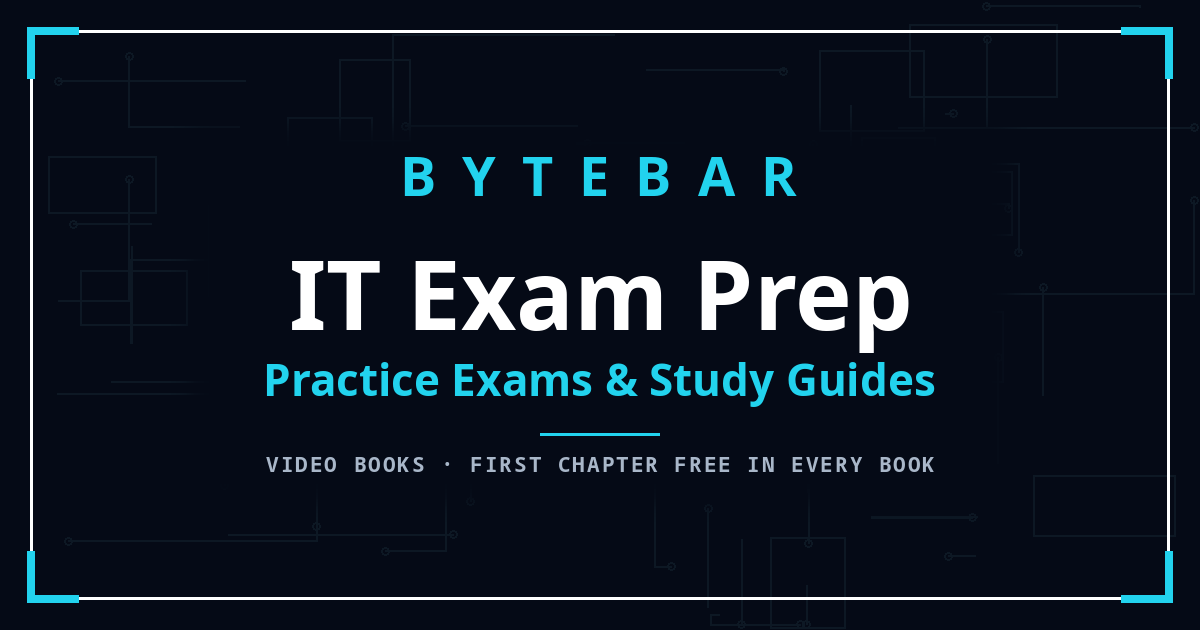
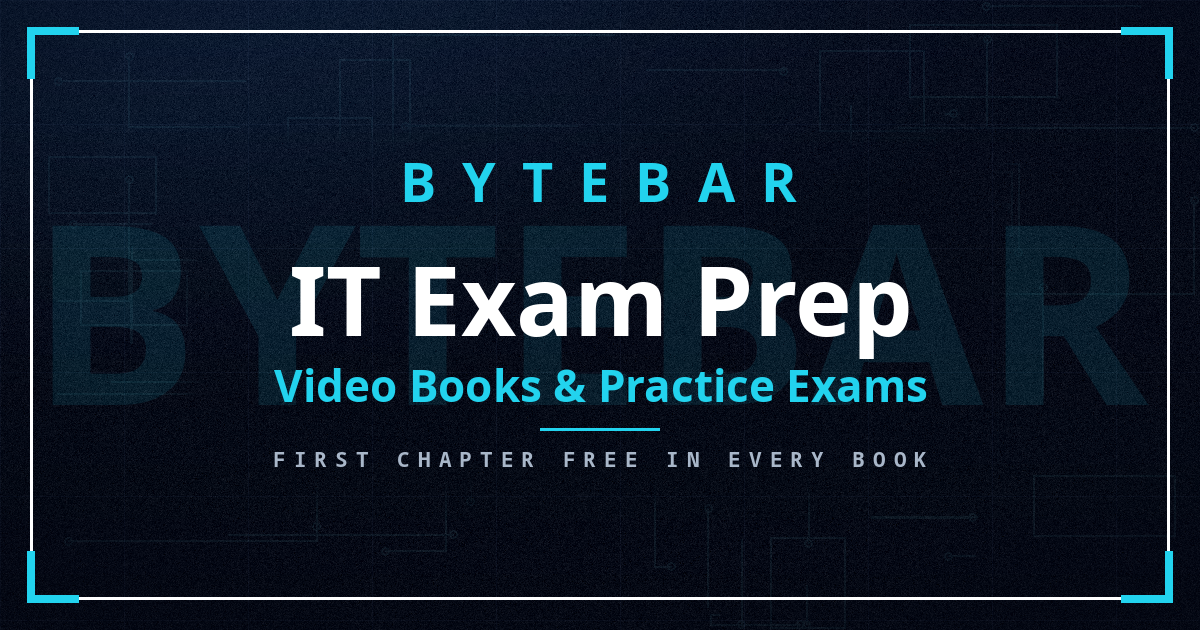
Preview: library home + Security+ book with signed Bunny player wiring (preview-library, not live)

diff --git a/preview-library/README.md b/preview-library/README.md
@@ -1,5 +1,20 @@
 # ByteBar Library — production-wiring preview (STAGED, not live)
 
+> **PROMOTED TO LIVE 2026-11-14** (Cori: "wire this up overall, sim
+> and library"). `build_preview.py` now takes a target: `live` emits
+> the same four pages without `noindex` into `live-dist/`, and
+> `deploy_live.py` publishes them to `bytebarhq.com/library/` in one
+> commit with the homepage (which gained a Library section; its nav
+> already linked `/library/`). The live home also carries a Simulator
+> door under the price card ("Practice Exam Simulator — included with
+> ByteBar Complete"), added by the builder for both targets. The
+> homepage received a full tidy pass in the same launch (Library-first
+> nav order, ByteBar Complete naming on purchase CTAs, YouTube
+> link/framing removed). This preview tree stays up, untouched, as the
+> review surface. `/library/index.html` previously served the
+> simulator's exam index; the per-exam pages under `/library/` are
+> unchanged.
+
 The customer path of the owned library, wired end to end. **Preview
 only**: these pages deploy to `bytebarhq.com/preview-library/`, carry
 `noindex`, and are not linked from any live page. The live `/library`,
